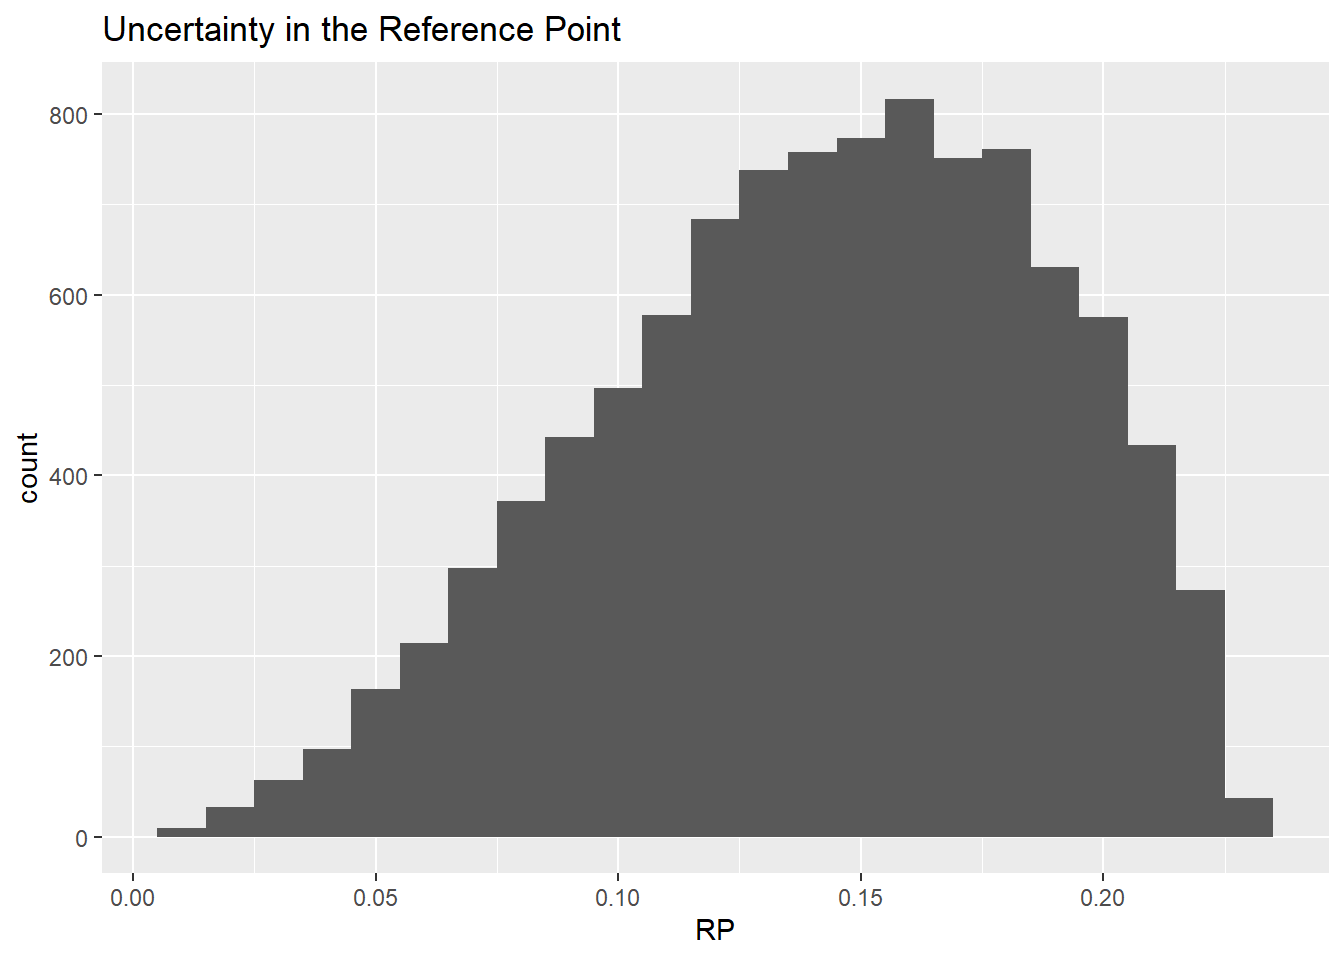
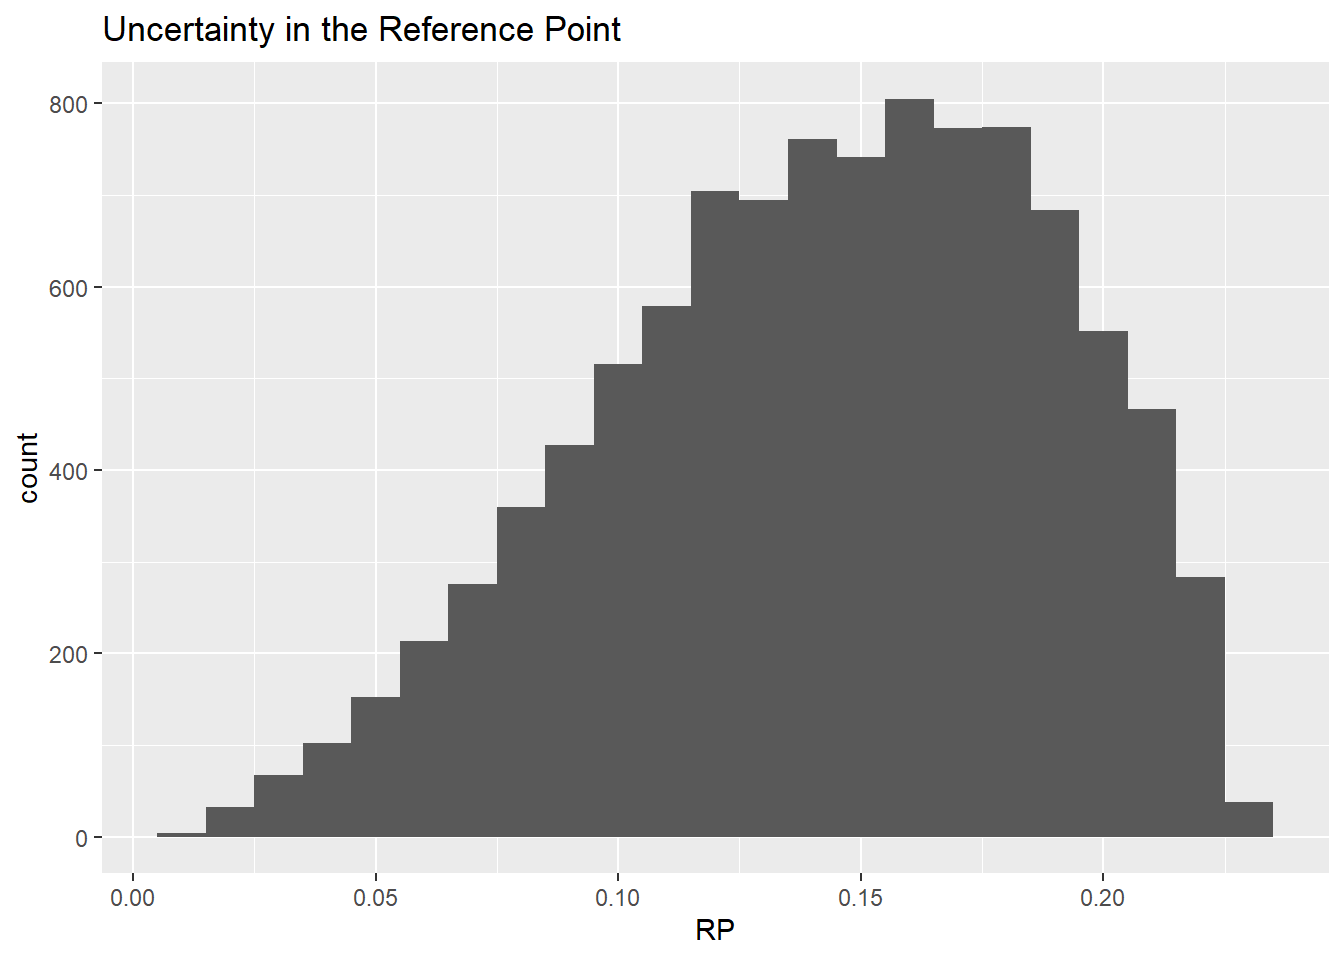
now

diff --git a/docs/risk example.html b/docs/risk example.html
@@ -168,6 +168,7 @@ pre > code.sourceCode > span > a:first-child::before { text-decoration: underlin
   <li><a href="#tier-1.-basic-option" id="toc-tier-1.-basic-option" class="nav-link" data-scroll-target="#tier-1.-basic-option">Tier 1. Basic option</a></li>
   <li><a href="#tier-2.-refined-option-with-probability-bounds" id="toc-tier-2.-refined-option-with-probability-bounds" class="nav-link" data-scroll-target="#tier-2.-refined-option-with-probability-bounds">Tier 2. Refined option with probability bounds</a>
   <ul class="collapse">
+  <li><a href="#probabilities-first" id="toc-probabilities-first" class="nav-link" data-scroll-target="#probabilities-first">Probabilities first</a></li>
   <li><a href="#numbers-first" id="toc-numbers-first" class="nav-link" data-scroll-target="#numbers-first">Numbers first</a></li>
   </ul></li>
   <li><a href="#tier-3.-refined-option-with-probability-distributions" id="toc-tier-3.-refined-option-with-probability-distributions" class="nav-link" data-scroll-target="#tier-3.-refined-option-with-probability-distributions">Tier 3. Refined option with probability distributions</a>
@@ -360,7 +361,8 @@ Note
 <p>A refined approach is useful when there is a small difference between the Point of Departure and the Highest Exposure, when the experts cannot conclude and collecting more data is not possible within the limits of the assessment.</p>
 <p>A refined option is to assess uncertainties separately for the <strong>PoD</strong> and <strong>HE</strong>, combine them by calculations into a risk ratio and assess uncertainty in the conclusion.</p>
 <p>We explore how to do this with <strong>probability bound analysis</strong> where we offer two approaches: probabilities first or numbers first.</p>
-<p>%::: panel-tabset ## Probabilities first</p>
+<section id="probabilities-first" class="level2">
+<h2 class="anchored" data-anchor-id="probabilities-first">Probabilities first</h2>
 <p>The refined option with probability bounds can be modified to consider practical certainty in the following way. In this example, the risk managers and the experts have agreed that experts must be at least 75% certain that a High Exposure <strong>HE</strong> is below the <strong>PoD</strong> in order for risk managers to make a decision.</p>
 <p>This means that the assessment is conclusive when the experts are at least 75% certain that the risk ratio is less than one (<em>no health concern</em>).</p>
 <p>Subtract the probability threshold for practical certainty from 100% to set an upper bound for the the sum of the lost probabilities.</p>
@@ -379,6 +381,7 @@ Note
 <p>Divide the conservative estimate for the exposure with the conservative estimate for the hazard <span class="math inline">\(\frac{x}{y}\)</span>.</p>
 <p>Practical certainty is obtained if <span class="math inline">\(\frac{x}{y} &lt; 1\)</span>.</p>
 <p>In this example, this ratio is <span class="math inline">\(\frac{5.4}{5.2} = 1.0384615\)</span></p>
+</section>
 <section id="numbers-first" class="level2">
 <h2 class="anchored" data-anchor-id="numbers-first">Numbers first</h2>
 <p>Use a conservative estimate for PoD as starting point and use experts judgement on their uncertainty for that to guide what value to consider for the exposure part.</p>
@@ -402,7 +405,6 @@ Note
 </tbody>
 </table>
 <!-- In some situations, the PoD is the BMDL and then it is difficult to talk about uncertainty about the PoD. If so, one can introduce an uncertainty factor (UF) that considers uncertainty associated with the hazard assessment. The focus is then on PoD/UF instead of PoD. -->
-<p><span class="math display">\[P(PoD &gt; y) = 95\%\]</span></p>
 <p>Derive the value on the High Exposure where the risk ratio is at the critical threshold</p>
 <p><span class="math display">\[\frac{x}{y} = 1\]</span></p>
 <p>This value is <span class="math inline">\(x = 1 \cdot y = 5.2\)</span></p>
@@ -433,7 +435,6 @@ Note
 <!-- |--------------------|----------------------|-----------------------| -->
 <!-- | $\leq 20\%$| 0.87|$\geq 80\%$| -->
 <!-- See if a conclusion can be made. If the value 0.87 is less than 1 and the probability is above the practical certainty 0.75, then result is enough to reach a conclusion whether a High Exposure is below the Point of Departure (i.e. that the MOE is greater than 1).  -->
-<p>%:::</p>
 <p>If it is not possible to conclude with high enough certainty, we move on to a refined option for uncertainty analysis with probability distributions or consider reducing uncertainty by collecting more data.</p>
 </section>
 </section>
@@ -607,7 +608,7 @@ Warning
 <p><img src="risk-example_files/figure-html/unnamed-chunk-10-1.png" class="img-fluid" width="672"></p>
 </div>
 </div>
-<p>The calculated probability that the risk ratio is below 1 is <span class="math display">\[P(\frac{HE}{PoD}&gt;1) = 98 \%\]</span></p>
+<p>The calculated probability that the risk ratio is below 1 is <span class="math display">\[P(\frac{HE}{PoD}&lt;1) = 98 \%\]</span></p>
 <p>This value was derived by calculating the proportion of random samples in your Monte Carlo simulation that corresponds to a ratio &lt; 1.</p>
 <div class="cell">
 <div class="sourceCode cell-code" id="cb5"><pre class="sourceCode r code-with-copy"><code class="sourceCode r"><span id="cb5-1"><a href="#cb5-1" aria-hidden="true" tabindex="-1"></a>rr <span class="ot">=</span> pod<span class="sc">/</span>he</span>
@@ -636,7 +637,7 @@ Warning
 <p><img src="risk-example_files/figure-html/unnamed-chunk-13-1.png" class="img-fluid" width="672"></p>
 </div>
 </div>
-<p>In this visualisation, the red area corresponds to a High Exposure less than the Point of Departure.</p>
+<p>In this visualisation, the red area corresponds to a High Exposure greater than the Point of Departure.</p>
 </section>
 </section>
 <section id="consider-additional-sources-of-uncertainty" class="level3">

diff --git a/docs/uncertainty_analysis.html b/docs/uncertainty_analysis.html
@@ -451,8 +451,8 @@ pre > code.sourceCode > span > a:first-child::before { text-decoration: underlin
 <div class="cell">
 <div class="sourceCode cell-code" id="cb1"><pre class="sourceCode r code-with-copy"><code class="sourceCode r"><span id="cb1-1"><a href="#cb1-1" aria-hidden="true" tabindex="-1"></a><span class="fl">0.23</span> <span class="sc">*</span> <span class="fu">rbeta</span>(<span class="at">n =</span> <span class="dv">10</span>, <span class="at">shape1 =</span> <span class="fl">3.15</span>, <span class="at">shape2 =</span> <span class="fl">1.92</span>)</span></code><button title="Copy to Clipboard" class="code-copy-button"><i class="bi"></i></button></pre></div>
 <div class="cell-output cell-output-stdout">
-<pre><code> [1] 0.11674072 0.20338384 0.13369156 0.16122145 0.07278951 0.15081937
- [7] 0.18190044 0.08662324 0.14229086 0.07749503</code></pre>
+<pre><code> [1] 0.12787051 0.19157016 0.14681779 0.05649840 0.14359335 0.12770842
+ [7] 0.13024753 0.07636525 0.14318073 0.12381942</code></pre>
 </div>
 </div>
 <p>This beta-distribution is defined as</p>
@@ -525,7 +525,7 @@ pre > code.sourceCode > span > a:first-child::before { text-decoration: underlin
 <p><img src="uncertainty_analysis_files/figure-html/unnamed-chunk-7-1.png" class="img-fluid" width="672"></p>
 </div>
 </div>
-<p>The calculated probability that the MOE is above 1 is 30 %.</p>
+<p>The calculated probability that the MOE is above 1 is 31 %.</p>
 <ol start="8" class="example" type="1">
 <li>Calculate the proportion of random samples in your Monte Carlo simulation that corresponds to a MOE &gt; 1.</li>
 </ol>
@@ -569,7 +569,7 @@ pre > code.sourceCode > span > a:first-child::before { text-decoration: underlin
 </section>
 <section id="uncertainty-in-the-conclusion" class="level2">
 <h2 class="anchored" data-anchor-id="uncertainty-in-the-conclusion">Uncertainty in the conclusion</h2>
-<p>In my analysis, the attempts to arrive at a high certainty that the MOE is acceptable (i.e.&nbsp;above 1) has failed. This is because the level of certainty for the outcome of interest is 30% which is not in the region of practical certainty (i.e.&nbsp;&lt;10% or &gt;90%).</p>
+<p>In my analysis, the attempts to arrive at a high certainty that the MOE is acceptable (i.e.&nbsp;above 1) has failed. This is because the level of certainty for the outcome of interest is 31% which is not in the region of practical certainty (i.e.&nbsp;&lt;10% or &gt;90%).</p>
 <table class="table">
 <thead>
 <tr class="header">
